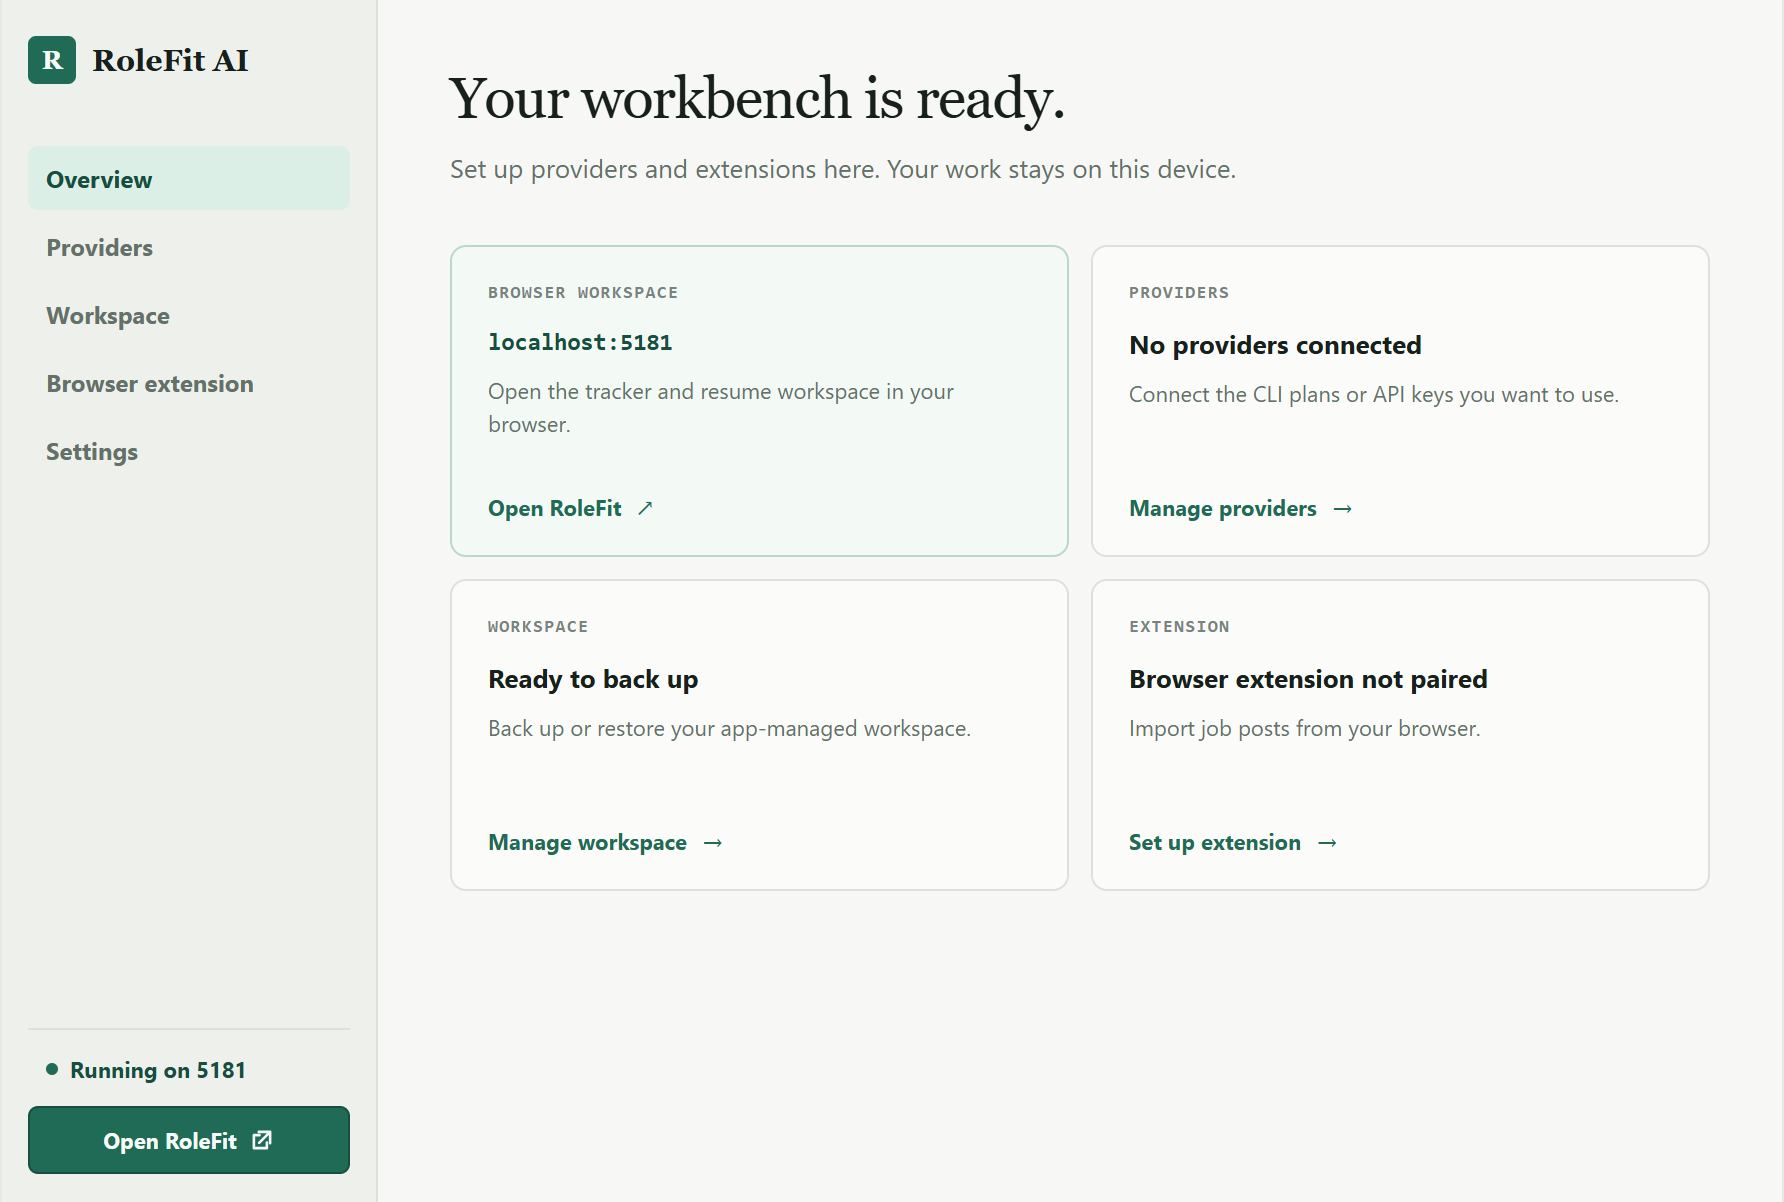
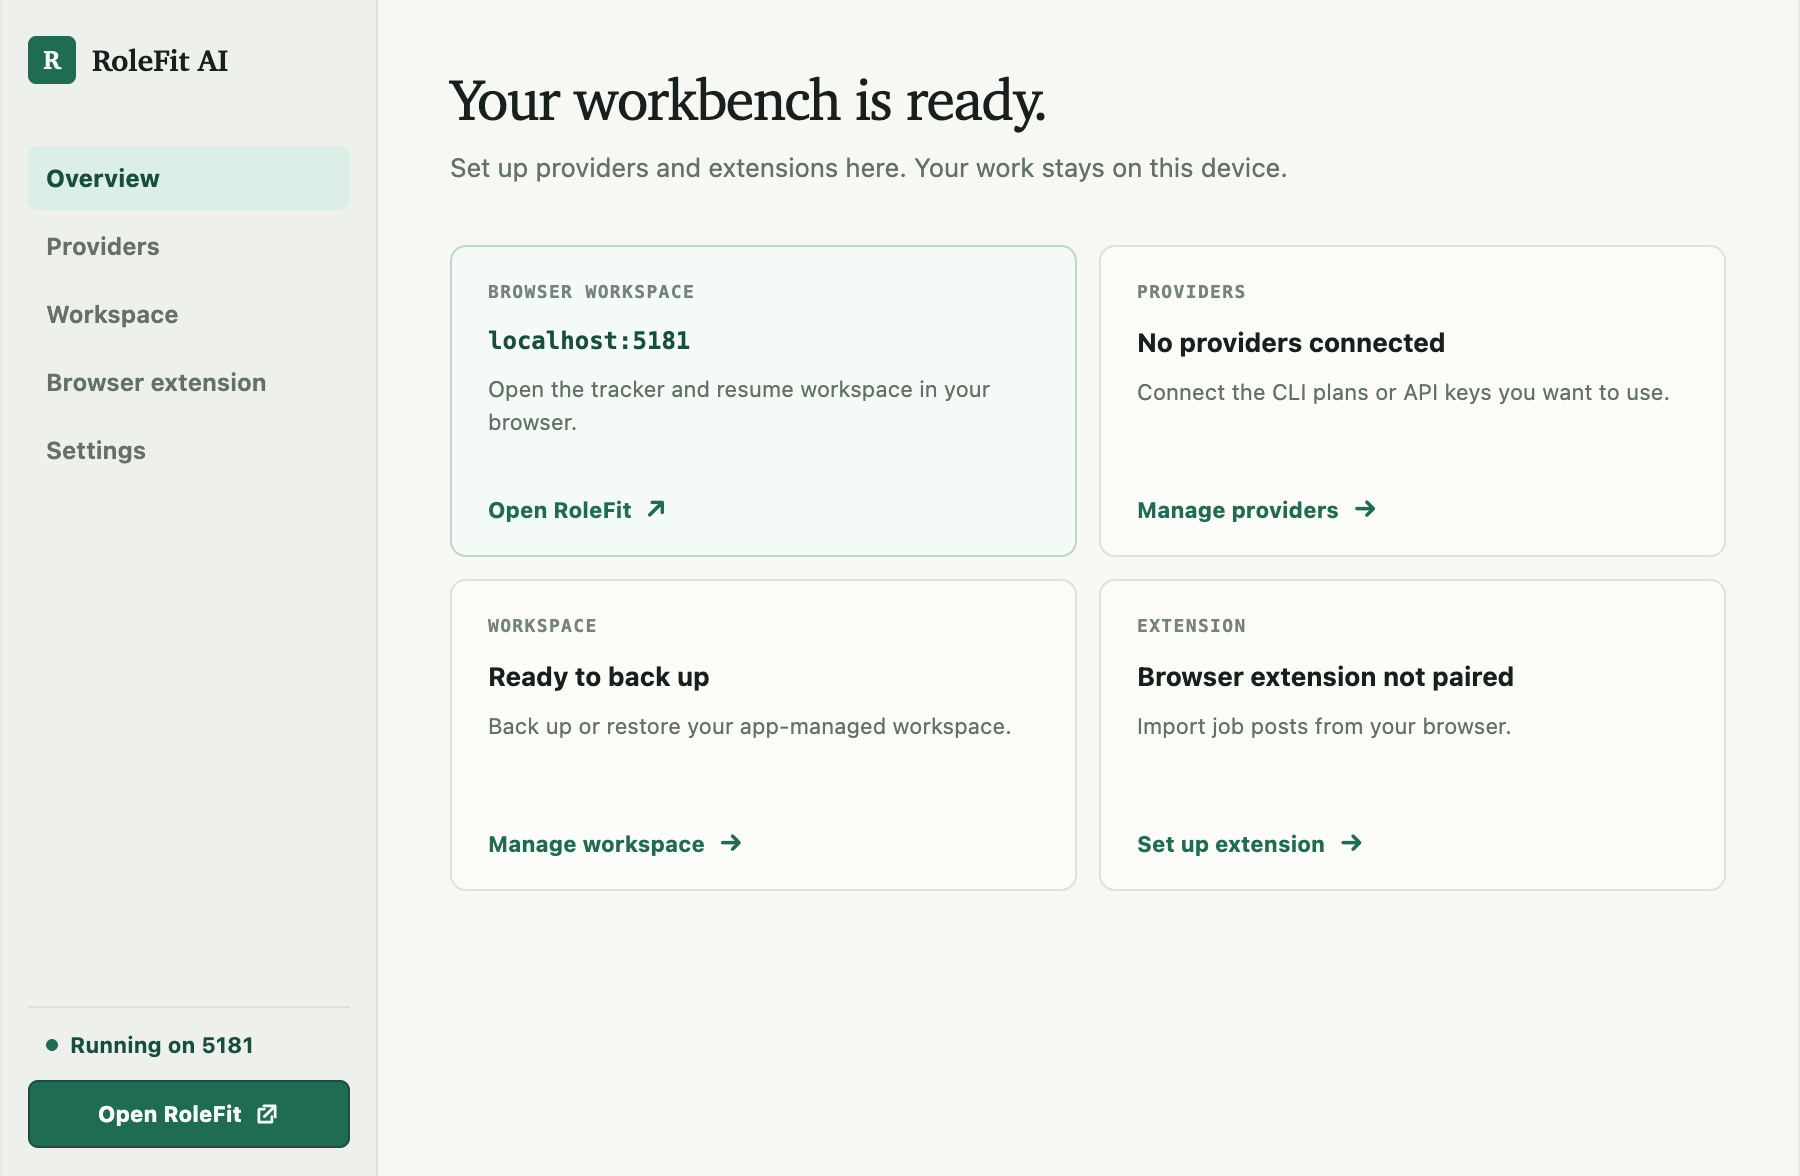
chore(rolefit): prepare the 0.9.1 preview (#193)
Bump RoleFit to 0.9.1 (patch: the fixes of #192, with no new capability and no
stored-data or format change) with beta.1 release notes; extension 1.2.1 and
desktop bridge API 13 are unchanged, and the release-contract test pins the
0.9.1 beta.1 tuple. Current-version references move to 0.9.1; historical ones
stay. Retake the landing companion screenshot on macOS (2x, 1800x1176, sRGB,
no version shown) to replace the 0.9.0 Windows capture. CONTINUITY records the
preflight, the recapture, and the known Starter issue disclosed in the notes.

diff --git a/apps/role-fit-ai/landing/index.html b/apps/role-fit-ai/landing/index.html
@@ -272,8 +272,8 @@
               <img
                 src="/assets/desktop-app.png"
                 alt="RoleFit AI desktop companion overview with providers, workspace backup, browser extension, settings, and a browser launch control"
-                width="1784"
-                height="1202"
+                width="1800"
+                height="1176"
                 loading="lazy"
               />
               <figcaption><span>Fig. 2</span> The companion: providers, backups, extension pairing, and the browser launch.</figcaption>

diff --git a/apps/role-fit-ai/docs/releases/0.9.1-beta.1.md b/apps/role-fit-ai/docs/releases/0.9.1-beta.1.md
@@ -1,0 +1,77 @@
+# RoleFit AI 0.9.1: unsigned preview beta.1
+
+<!-- Curated preview-note source. Publication occurs only after every native build, packaged smoke, installer lifecycle, checksum, and atomic-publication gate succeeds. -->
+
+This unsigned public preview is a fix release for RoleFit 0.9.0. It includes
+browser extension **1.2.1** and desktop bridge API **13**, both unchanged, and
+keeps the product local-first and browser-primary: there is no app account,
+hosted workspace, cloud synchronization, or telemetry service.
+
+Version 0.9.1 fixes three issues in Answers and Prepare and adds no new
+features. It remains a preview rather than a stable release because public
+installers are still unsigned, automatic updates are not implemented, and
+portable formats may still change without migrations.
+
+## Upgrading from an earlier preview
+
+- **From 0.9.0:** 0.9.1 reads and writes the same workspace, tracker, settings,
+  and backups as 0.9.0, so no backup step is needed to move between them.
+- **From 0.8.0 or earlier:** the RoleFit 0.9.0 preview's upgrade notes also
+  apply. Trackers, settings, and backups saved by 0.9.x do not open in 0.8.0,
+  so create a `.rolefit-backup` in 0.8.0 before upgrading if you may need to
+  roll back.
+- Reload any RoleFit tab left open from the previous version before editing.
+- Quit the existing RoleFit application before installing this preview.
+- On macOS, replace the existing `RoleFit AI.app` in Applications.
+- On Windows, run the new installer over the existing installation. The
+  installer retains RoleFit's internal upgrade and local-data identity.
+- The installed companion continues to use the existing RoleFit workspace and
+  provider configuration.
+- The browser extension is unchanged (1.2.1); no reload is needed.
+- Save important standalone cover letters as `.cover` files separately. The
+  current `.rolefit-backup` allowlist does not include saved cover-letter
+  variants.
+
+## Before installing
+
+- macOS Gatekeeper will identify the app as coming from an unidentified
+  developer. The app has an ad-hoc integrity signature but is not notarized or
+  signed with Apple Developer ID.
+- Windows SmartScreen will warn that the publisher is unknown. The installer
+  is not Authenticode-signed.
+- Download only from the canonical RoleFit GitHub Release and compare the file
+  against `SHA256SUMS.txt` before opening it.
+
+## Fixed
+
+- **Answers no longer drafts from the bundled Starter sample on Retry.** If a
+  draft failed or was stopped and you then opened the Starter template, Retry
+  in the Answers progress card sent the sample's content as your resume. It now
+  stops with "Add your resume first.", as sending a question and the Answers
+  tab's own Retry already did. This applies until you save a Draft or
+  application in the current preparation, or open a saved one; after that,
+  opening the Starter still counts as a resume. That is a known issue for a
+  later release.
+- **The first Answers Save keeps a Link you already chose.** If you prepared a
+  posting again, chose Link for a matching application, and then stopped that
+  preparation, the first Save in Answers now links the new Draft to that
+  application's posting group, as Polish, Apply, and Skip & save job already
+  did. Before, the Draft was saved unlinked and a later Apply did not link it;
+  Drafts saved that way by 0.9.0 stay unlinked. If you chose Keep separate
+  instead, the Draft is saved unlinked.
+- **Prepare's Resume Polish matches the Resume tab.** A locked Education or
+  contact section left set to Polish no longer counts as a section to polish,
+  so Prepare no longer offers Polish for a resume whose only Polish sections
+  are locked. When no editable section is set to Polish and the Polish provider
+  is ready, the Resume card says so instead of showing an earlier Polish
+  status.
+
+## Included
+
+- Native macOS downloads for Apple silicon and Intel, plus a native Windows x64
+  installer and a checksum file covering every published artifact.
+
+RoleFit's browser app, loopback server, paired extension, and workspace remain
+on the user's device. AI input goes directly to the provider selected for that
+stage only when the user runs the workflow; provider credentials and personal
+workspace data are not part of the public release artifacts.

diff --git a/CONTINUITY.md b/CONTINUITY.md
@@ -5,7 +5,48 @@ bounded; app-only operational detail belongs in the affected app documentation.
 
 ## 2026-10-08
 
-- [USER+CODE] **Four open items fixed in one PR** (branch
+- [USER+CODE] **RoleFit 0.9.1 preview prepared** (patch: the three
+  user-facing fixes and one test fix of #192 since
+  `rolefit-preview-v0.9.0-beta.1`, no new capability and no
+  stored-data or format change; the user approved the release brief and plan,
+  task `2026-10-08-rolefit-0.9.1-preview`). The intended tag is
+  `rolefit-preview-v0.9.1-beta.1`; extension 1.2.1 and desktop bridge API 13
+  are unchanged, and the landing screenshot manifest stays empty. Release notes
+  are `apps/role-fit-ai/docs/releases/0.9.1-beta.1.md`.
+  - [TOOL] Preflight on Windows x64 with Node 24.18.0: release tests
+    (`test:desktop:release`) 14/14; full `npm run check --workspace
+    apps/role-fit-ai` (165/165 offline evals); `make:rolefit:desktop` produced
+    a fresh Squirrel installer and `0.9.1-full.nupkg`; the packaged smoke
+    passed against that fresh output (win32-x64, unpacked). The Electron
+    development-mode smoke failed once in the main checkout without its output
+    kept, then passed twice there (the second with a full log and exit 0). The
+    0.9.0 preflight also saw it fail in the main checkout and pass in a clean
+    worktree; root cause still not isolated. Keep the smoke's log next time.
+  - [USER+TOOL] After that preflight, the landing companion screenshot was
+    retaken on macOS arm64 (user request) to replace the 0.9.0 Windows
+    capture with macOS system fonts: smoke screenshot hook, development mode,
+    isolated user data, empty workspace, port 5181 with the user's companion
+    quit, 2x, 1800x1176, converted from Display P3 to sRGB so the brand green
+    matches the CSS. The empty workspace and port 5181 depart from
+    `landing/AGENTS.md`'s synthetic-pack/spare-port rule, as at 0.8.0; the
+    Overview shows no workspace content. The `<img>` now declares 1800x1176.
+    It shows no version, so the manifest stays empty. After the swap,
+    `build:landing` (with its boundary guard) and `test:desktop:release`
+    (14/14) passed on macOS. No landing browser QA ran for this image-only
+    swap. One independent review: no blocking findings.
+  - [CODE] Open, found in the release review (pre-existing, not fixed in
+    0.9.1): `resumeIsStarterSample` requires `applicationOfRecordId === null`
+    (`App.tsx`), so once the preparation owns a record (after a first Answers
+    Save, Apply, or Skip & save job, or with a saved application open), Open >
+    Bundled starter makes `resumeReady` true. Answers, Resume and Cover Letter
+    Polish, Apply readiness, and the automatic-proposal inputs can then treat
+    the sample as the applicant's resume (`usePreparedResume` has the same
+    application-owned exception in `lib/preparedResume.ts`), contrary to
+    PRODUCT's rule that the Starter never satisfies resume readiness. The 0.9.1
+    notes disclose it as a known issue.
+- [USER+CODE] **Four open items fixed in #192** (squash `fc60489` of the
+  exact reviewed head `1f77176`, CI green: 15 checks, product-site deploy
+  skipped; branch
   `fix/rolefit-four-open-gaps`, task `2026-10-08-four-open-fixes`; the user
   approved brief v1 and plan v1). Client and test code only: no schema,
   prompt, provider, or shared-package change, and no version bump.
@@ -69,7 +110,8 @@ bounded; app-only operational detail belongs in the affected app documentation.
   test pins the version out of the sidebar. The companion screenshot was
   recaptured on Windows (1784x1202, isolated user data, empty workspace, port
   5181, 2x), so its type renders in Windows fallback fonts rather than the
-  macOS ones used at 0.8.0.
+  macOS ones used at 0.8.0 (superseded 2026-10-08 by the 0.9.1-prep macOS
+  recapture, 1800x1176).
 - [USER+CODE] RoleFit Skip records any number of reasons from a grouped list of
   12 (Eligibility, Logistics, Fit, Status, Personal) plus an optional note. The
   tracker field is now `notApplyingReasons` (canonical-order list, omitted when

diff --git a/apps/role-fit-ai/docs/engineering/distribution-cloud-plan.md b/apps/role-fit-ai/docs/engineering/distribution-cloud-plan.md
@@ -431,13 +431,13 @@ Squirrel lifecycle as well:
 
 ```bash
 npm run collect:desktop:artifacts --workspace apps/role-fit-ai -- --arch=x64 --platform=win32 --checksums=false
-npm run test:desktop:windows-installer --workspace apps/role-fit-ai -- --installer=.forge/release/RoleFit-AI-0.9.0-windows-x64.exe
+npm run test:desktop:windows-installer --workspace apps/role-fit-ai -- --installer=.forge/release/RoleFit-AI-0.9.1-windows-x64.exe
 ```
 
 Generated staging, unpacked applications, maker output, normalized artifacts,
 and CI downloads live under `apps/role-fit-ai/.forge/` and are ignored. The
 collector writes deterministic names such as
-`RoleFit-AI-0.9.0-macos-arm64.dmg` and a local
+`RoleFit-AI-0.9.1-macos-arm64.dmg` and a local
 `SHA256SUMS.txt`; the publication job creates one checksum file over all five
 release artifacts.
 

diff --git a/docs/development.md b/docs/development.md
@@ -305,7 +305,7 @@ npm run collect:desktop:artifacts --workspace apps/role-fit-ai -- --arch=arm64 -
 npm run make:rolefit:desktop -- --arch=x64 --platform=win32
 npm run test:rolefit:desktop:packaged -- --arch=x64 --platform=win32
 npm run collect:desktop:artifacts --workspace apps/role-fit-ai -- --arch=x64 --platform=win32 --checksums=false
-npm run test:desktop:windows-installer --workspace apps/role-fit-ai -- --installer=.forge/release/RoleFit-AI-0.9.0-windows-x64.exe
+npm run test:desktop:windows-installer --workspace apps/role-fit-ai -- --installer=.forge/release/RoleFit-AI-0.9.1-windows-x64.exe
 ```
 
 Local package/make output is not publicly trusted (macOS is ad-hoc signed only)

diff --git a/apps/role-fit-ai/desktop/AGENTS.md b/apps/role-fit-ai/desktop/AGENTS.md
@@ -272,7 +272,7 @@ npm run test:desktop:package-layout --workspace apps/role-fit-ai
 npm run package:rolefit:desktop
 npm run test:rolefit:desktop:packaged
 npm run make:rolefit:desktop
-npm run test:desktop:windows-installer --workspace apps/role-fit-ai -- --installer=.forge/release/RoleFit-AI-0.9.0-windows-x64.exe
+npm run test:desktop:windows-installer --workspace apps/role-fit-ai -- --installer=.forge/release/RoleFit-AI-0.9.1-windows-x64.exe
 npm run test:rolefit:release
 ```
 

diff --git a/apps/role-fit-ai/README.md b/apps/role-fit-ai/README.md
@@ -13,7 +13,7 @@ application-data service.
 
 [Product site and companion downloads](https://rolefit.xinyiklin.com/)
 
-Current desktop source version: **0.9.0** (preview).
+Current desktop source version: **0.9.1** (preview).
 
 [Content and evidence checks](PRODUCT.md#content-and-evidence-warning-policy)
 keep otherwise usable output available with warnings before use. Accept, edit,
